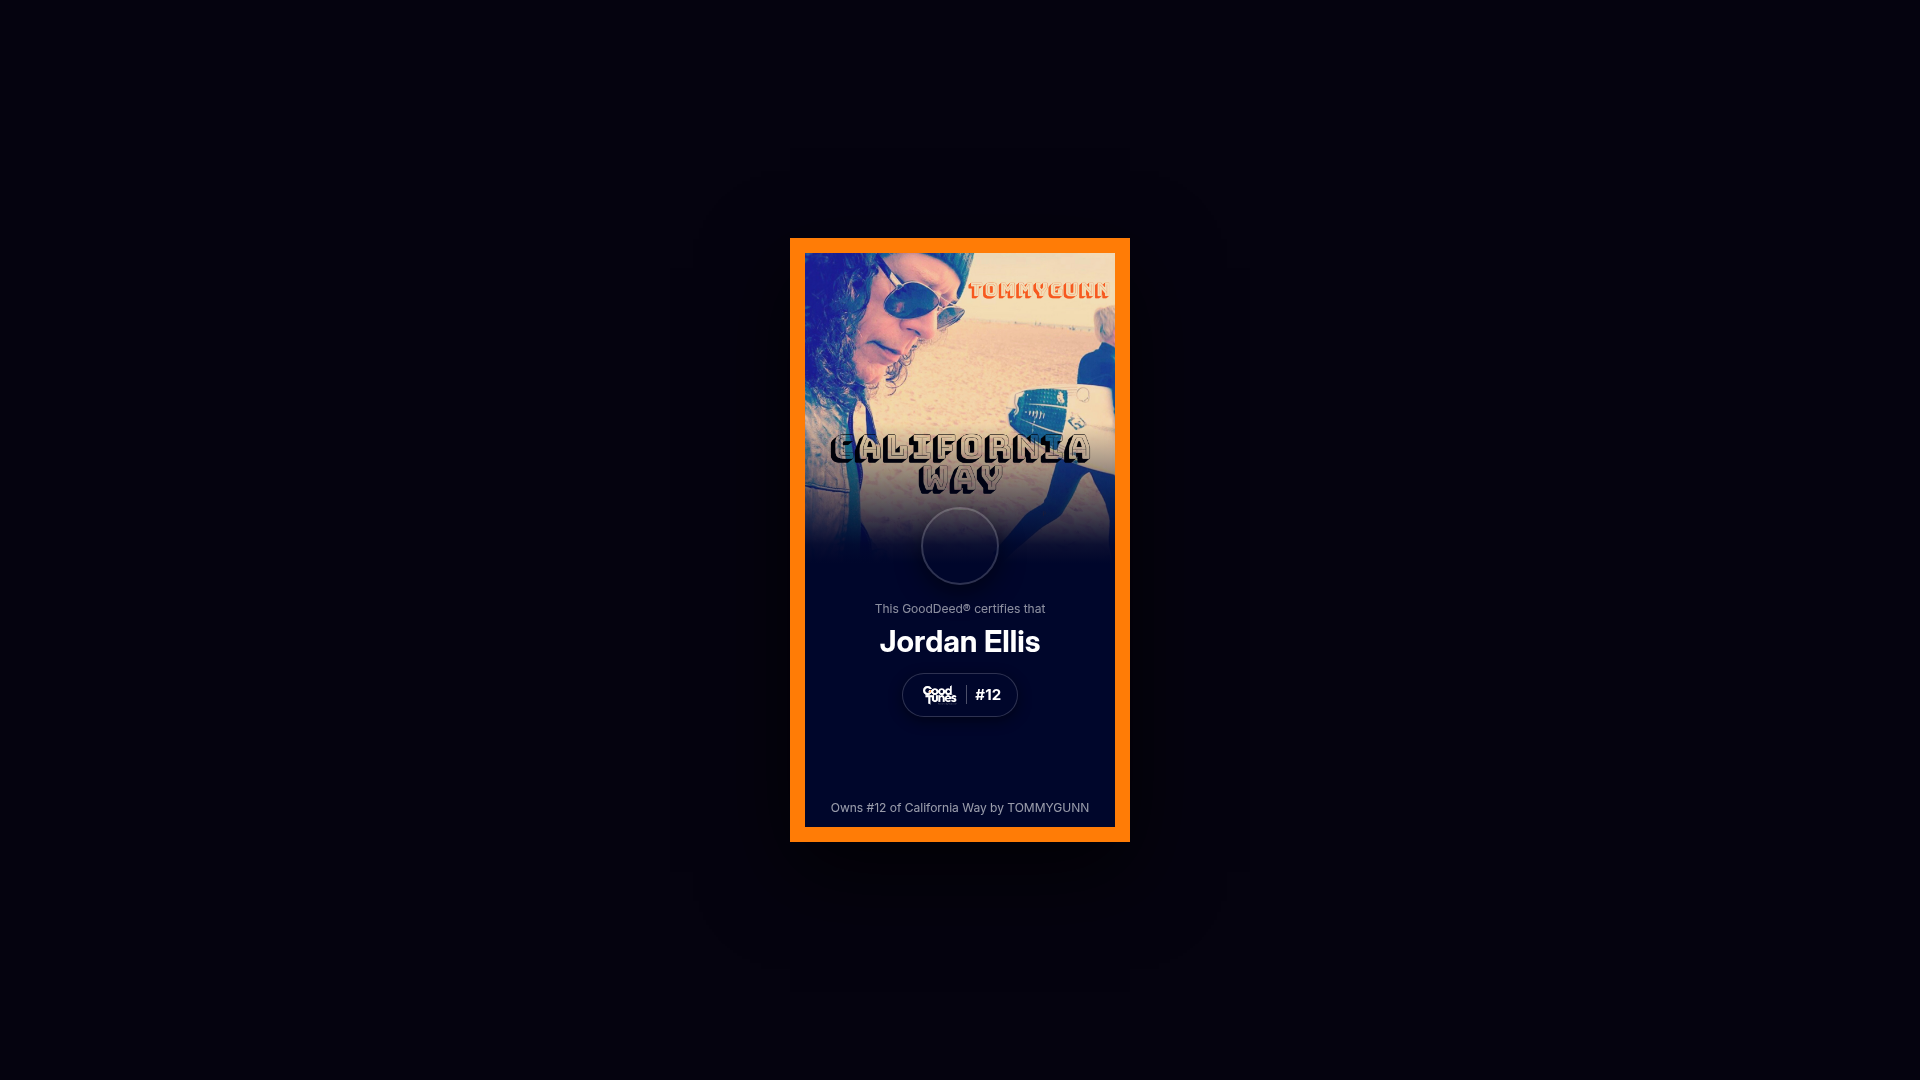
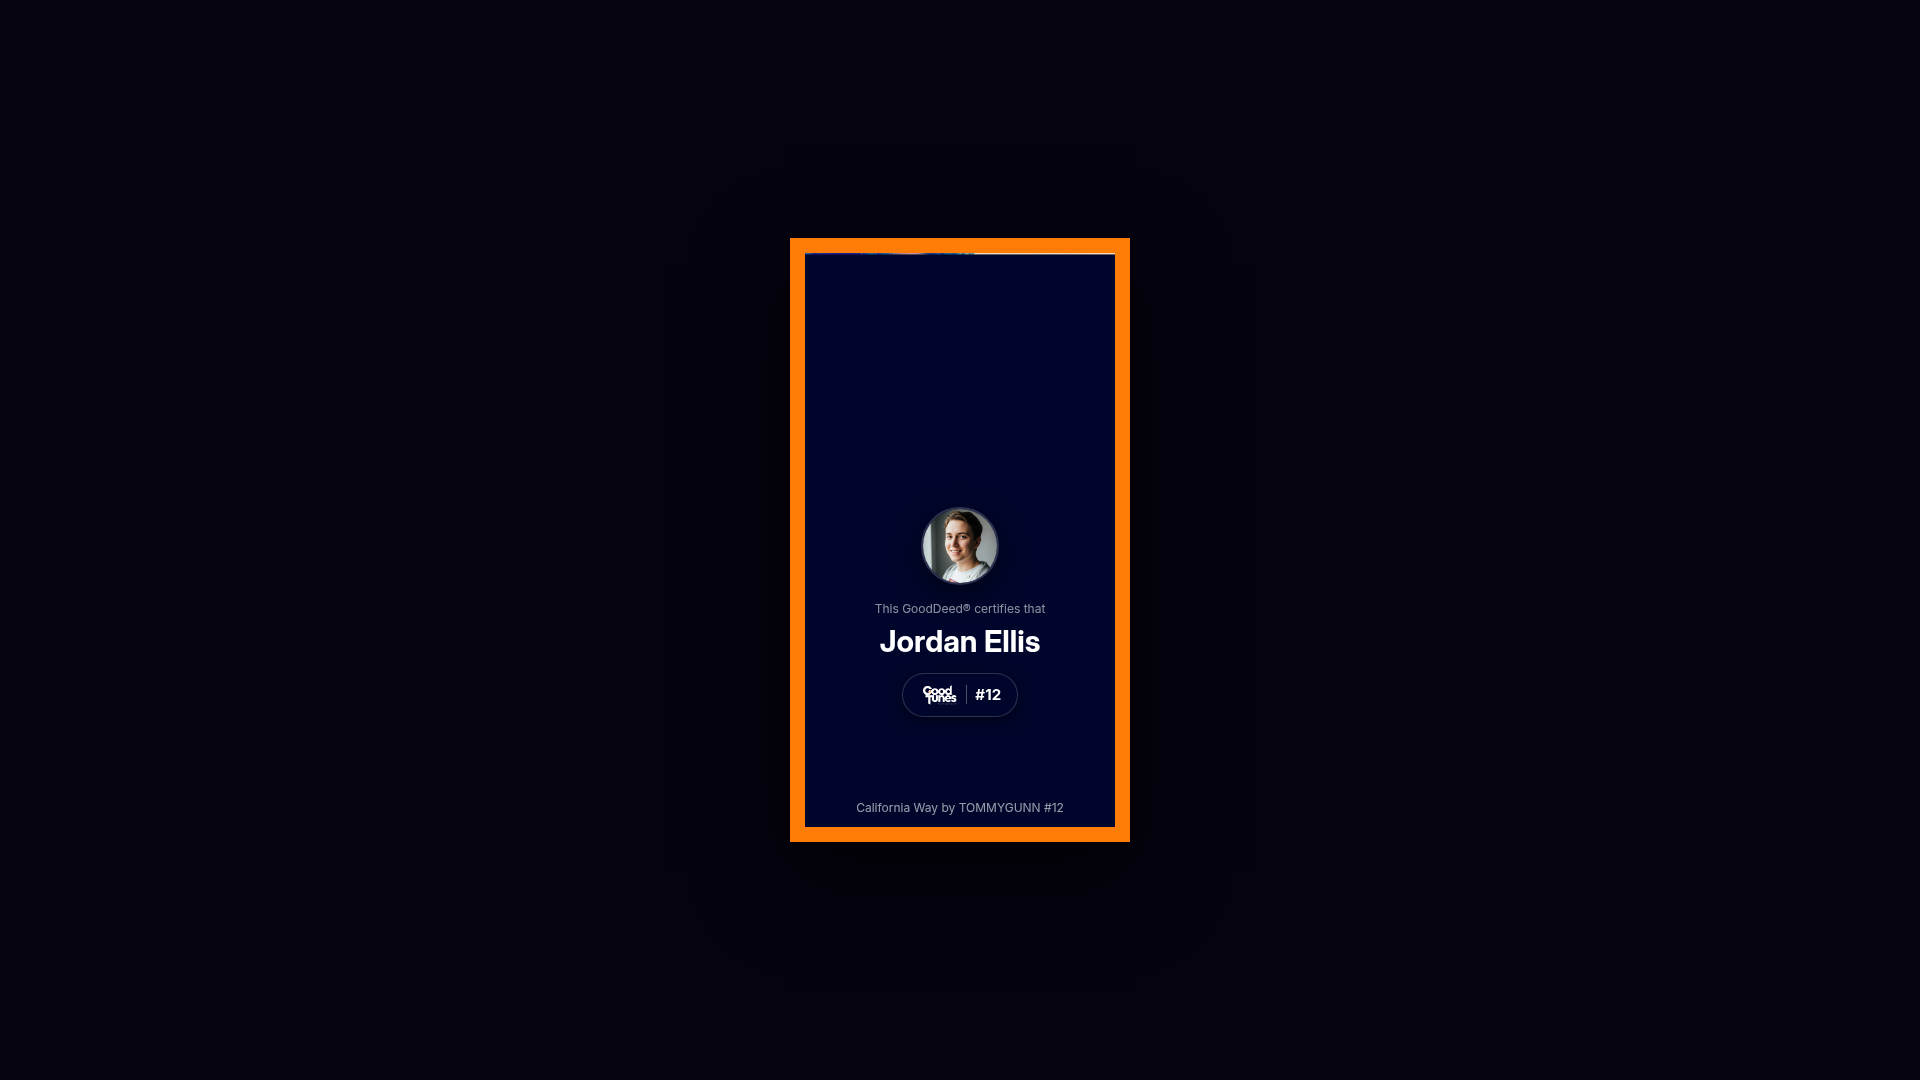
Update ownership text to show album and artist before certificate number
Reorder caption text in `StoriesBordered.tsx` to display album title and artist before the certificate number.

Replit-Commit-Author: Agent
Replit-Commit-Session-Id: 05c2a2e8-5b06-4806-a9d5-d257ed0dfe21
Replit-Commit-Checkpoint-Type: full_checkpoint
Replit-Commit-Event-Id: e4822a83-2a67-4087-8416-d8ab722e6bb6
Replit-Commit-Screenshot-Url: https://storage.googleapis.com/screenshot-production-us-central1/5293185b-8e25-4d4f-b8b2-dc5494b9adc6/05c2a2e8-5b06-4806-a9d5-d257ed0dfe21/iswkjfa
Replit-Helium-Checkpoint-Created: true

Changed region(s): [[0.4062, 0.2139, 0.5938, 0.55], [0.4375, 0.7333, 0.5625, 0.7639]]

diff --git a/artifacts/mockup-sandbox/src/components/mockups/gooddeed-cert/StoriesBordered.tsx b/artifacts/mockup-sandbox/src/components/mockups/gooddeed-cert/StoriesBordered.tsx
@@ -100,7 +100,7 @@ export function BorderedStoryCard({ overlay }: { overlay?: ReactNode }) {
 
         {/* secondary caption — one small, legible line pinned near the bottom */}
         <p className="text-white/60 text-xs leading-snug mt-auto whitespace-nowrap">
-          Owns #{certNumStr} of {album.title} by {album.artist}
+          {album.title} by {album.artist} #{certNumStr}
         </p>
       </div>
 
